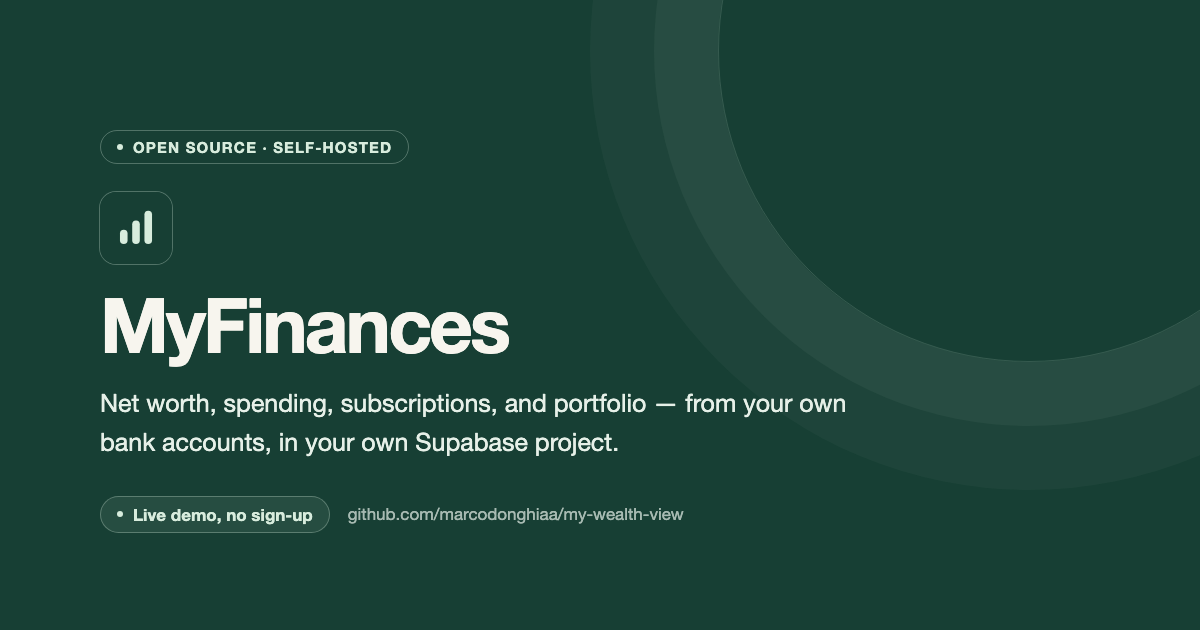
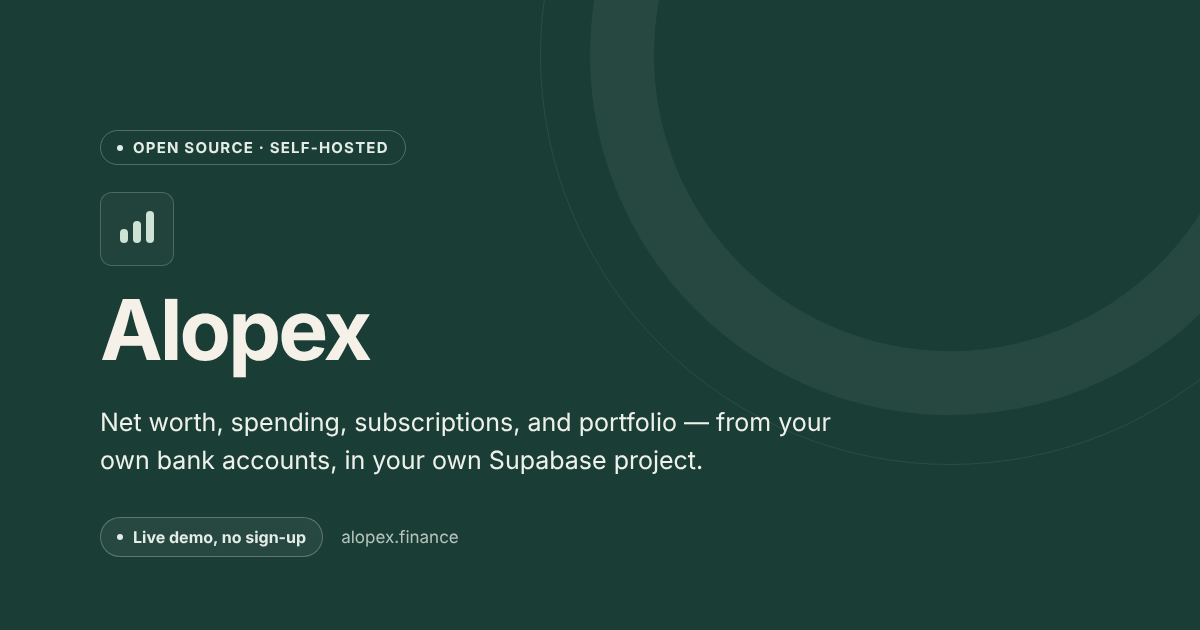
chore: rebrand MyFinances to Alopex
Display name, PWA manifest, OG image, page titles, docs and export file name.
Repo URLs unchanged until the GitHub repos are renamed.

Claude-Session: https://claude.ai/code/session_015ob4vseKrSYbt3XPdrmNM3

diff --git a/src/routes/auth.tsx b/src/routes/auth.tsx
@@ -34,13 +34,13 @@ export const Route = createFileRoute("/auth")({
   },
   head: () => ({
     meta: [
-      { title: "Sign in — MyFinances" },
+      { title: "Sign in — Alopex" },
       {
         name: "description",
         content: "Sign in to your personal finance dashboard.",
       },
       { name: "robots", content: "noindex" },
-      { property: "og:title", content: "Sign in — MyFinances" },
+      { property: "og:title", content: "Sign in — Alopex" },
       {
         property: "og:description",
         content: "Sign in to your personal finance dashboard.",
@@ -129,7 +129,7 @@ function AuthPage() {
       <div className="w-full max-w-sm">
         <div className="mb-8 flex flex-col items-center text-center">
           <BrandMark className="mb-4 size-12" />
-          <h1 className="text-2xl font-semibold tracking-tight text-foreground">MyFinances</h1>
+          <h1 className="text-2xl font-semibold tracking-tight text-foreground">Alopex</h1>
           <p className="mt-1 text-sm text-muted-foreground">Sign in to view your finances</p>
         </div>
 

diff --git a/src/routes/_authenticated/route.tsx b/src/routes/_authenticated/route.tsx
@@ -137,7 +137,7 @@ function AuthenticatedLayout() {
         <div className="flex h-16 items-center gap-2.5 px-5">
           <BrandMark className="size-8" />
           <span className="text-[0.9375rem] font-semibold tracking-tight text-sidebar-foreground">
-            MyFinances
+            Alopex
           </span>
         </div>
 
@@ -198,7 +198,7 @@ function AuthenticatedLayout() {
       {/* Mobile top bar: padded for the notch (safe-area-inset-top is 0 in a normal tab).
           Page titles are large titles inside each page; this bar only names the app. */}
       <div className="glass fixed inset-x-0 top-0 z-30 flex h-[calc(2.75rem+env(safe-area-inset-top))] items-center justify-center border-b pt-[env(safe-area-inset-top)] md:hidden">
-        <span className="text-[0.9375rem] font-semibold text-foreground">MyFinances</span>
+        <span className="text-[0.9375rem] font-semibold text-foreground">Alopex</span>
       </div>
 
       {/* Mobile bottom tab bar: max 5 items, icon + label, current tab in the tint colour. */}

diff --git a/src/routes/__root.tsx b/src/routes/__root.tsx
@@ -94,13 +94,13 @@ export const Route = createRootRouteWithContext<{ queryClient: QueryClient }>()(
     meta: [
       { charSet: "utf-8" },
       { name: "viewport", content: "width=device-width, initial-scale=1, viewport-fit=cover" },
-      { title: "MyFinances" },
+      { title: "Alopex" },
       {
         name: "description",
         content:
           "A personal finance dashboard to track net worth, spending, and portfolio over time.",
       },
-      { property: "og:title", content: "MyFinances" },
+      { property: "og:title", content: "Alopex" },
       {
         property: "og:description",
         content:
@@ -120,7 +120,7 @@ export const Route = createRootRouteWithContext<{ queryClient: QueryClient }>()(
         name: "apple-mobile-web-app-status-bar-style",
         content: "black-translucent",
       },
-      { name: "apple-mobile-web-app-title", content: "MyFinances" },
+      { name: "apple-mobile-web-app-title", content: "Alopex" },
     ],
     links: [
       {

diff --git a/src/routes/_authenticated/subscriptions.tsx b/src/routes/_authenticated/subscriptions.tsx
@@ -21,12 +21,12 @@ import { RevealDialog } from "@/components/subscriptions/reveal-dialog";
 export const Route = createFileRoute("/_authenticated/subscriptions")({
   head: () => ({
     meta: [
-      { title: "Subscriptions — MyFinances" },
+      { title: "Subscriptions — Alopex" },
       {
         name: "description",
         content: "Track recurring subscription charges and estimated monthly spend.",
       },
-      { property: "og:title", content: "Subscriptions — MyFinances" },
+      { property: "og:title", content: "Subscriptions — Alopex" },
       {
         property: "og:description",
         content: "Track recurring subscription charges and estimated monthly spend.",

diff --git a/src/routes/_authenticated/splitwise.tsx b/src/routes/_authenticated/splitwise.tsx
@@ -26,12 +26,12 @@ import { fetchSplits, money, peopleFrom, type SplitRow } from "@/lib/splits";
 export const Route = createFileRoute("/_authenticated/splitwise")({
   head: () => ({
     meta: [
-      { title: "Who owes you — MyFinances" },
+      { title: "Who owes you — Alopex" },
       {
         name: "description",
         content: "Who owes you, from your Splitwise groups and the bills you split.",
       },
-      { property: "og:title", content: "Who owes you — MyFinances" },
+      { property: "og:title", content: "Who owes you — Alopex" },
       {
         property: "og:description",
         content: "Who owes you, from your Splitwise groups and the bills you split.",

diff --git a/src/routes/_authenticated/index.tsx b/src/routes/_authenticated/index.tsx
@@ -25,12 +25,12 @@ type FxRate = { date: string; currency: string; rate_to_eur: number };
 export const Route = createFileRoute("/_authenticated/")({
   head: () => ({
     meta: [
-      { title: "Net Worth — MyFinances" },
+      { title: "Net Worth — Alopex" },
       {
         name: "description",
         content: "Track your net worth over time with daily snapshots and currency conversion.",
       },
-      { property: "og:title", content: "Net Worth — MyFinances" },
+      { property: "og:title", content: "Net Worth — Alopex" },
       {
         property: "og:description",
         content: "Track your net worth over time with daily snapshots and currency conversion.",

diff --git a/src/routes/_authenticated/reports.tsx b/src/routes/_authenticated/reports.tsx
@@ -14,12 +14,12 @@ import { MonthSwitcher } from "@/components/month-switcher";
 export const Route = createFileRoute("/_authenticated/reports")({
   head: () => ({
     meta: [
-      { title: "Monthly Report — MyFinances" },
+      { title: "Monthly Report — Alopex" },
       {
         name: "description",
         content: "Net worth change, income vs expenses, and spending for the month.",
       },
-      { property: "og:title", content: "Monthly Report — MyFinances" },
+      { property: "og:title", content: "Monthly Report — Alopex" },
       {
         property: "og:description",
         content: "Net worth change, income vs expenses, and spending for the month.",

diff --git a/src/routes/_authenticated/transactions.tsx b/src/routes/_authenticated/transactions.tsx
@@ -47,12 +47,12 @@ import { MonthSwitcher } from "@/components/month-switcher";
 export const Route = createFileRoute("/_authenticated/transactions")({
   head: () => ({
     meta: [
-      { title: "Transactions — MyFinances" },
+      { title: "Transactions — Alopex" },
       {
         name: "description",
         content: "Browse and search transactions month by month, newest first.",
       },
-      { property: "og:title", content: "Transactions — MyFinances" },
+      { property: "og:title", content: "Transactions — Alopex" },
       {
         property: "og:description",
         content: "Browse and search transactions month by month, newest first.",

diff --git a/src/routes/_authenticated/income.tsx b/src/routes/_authenticated/income.tsx
@@ -13,12 +13,12 @@ import { useIncomeCategoryMutation } from "@/components/transactions/mutations";
 export const Route = createFileRoute("/_authenticated/income")({
   head: () => ({
     meta: [
-      { title: "Income — MyFinances" },
+      { title: "Income — Alopex" },
       {
         name: "description",
         content: "Real income for the month, separate from spending and transfers.",
       },
-      { property: "og:title", content: "Income — MyFinances" },
+      { property: "og:title", content: "Income — Alopex" },
       {
         property: "og:description",
         content: "Real income for the month, separate from spending and transfers.",

diff --git a/src/routes/_authenticated/spending.tsx b/src/routes/_authenticated/spending.tsx
@@ -13,12 +13,12 @@ import { ShareBar } from "@/components/share-bar";
 export const Route = createFileRoute("/_authenticated/spending")({
   head: () => ({
     meta: [
-      { title: "Spend by Category — MyFinances" },
+      { title: "Spend by Category — Alopex" },
       {
         name: "description",
         content: "See how much you spent per category, month by month.",
       },
-      { property: "og:title", content: "Spend by Category — MyFinances" },
+      { property: "og:title", content: "Spend by Category — Alopex" },
       {
         property: "og:description",
         content: "See how much you spent per category, month by month.",

diff --git a/src/routes/_authenticated/crypto.tsx b/src/routes/_authenticated/crypto.tsx
@@ -20,12 +20,12 @@ import { formatEur, formatUsd } from "@/lib/transactions";
 export const Route = createFileRoute("/_authenticated/crypto")({
   head: () => ({
     meta: [
-      { title: "Crypto — MyFinances" },
+      { title: "Crypto — Alopex" },
       {
         name: "description",
         content: "Track your cryptocurrency holdings and allocation.",
       },
-      { property: "og:title", content: "Crypto — MyFinances" },
+      { property: "og:title", content: "Crypto — Alopex" },
       {
         property: "og:description",
         content: "Track your cryptocurrency holdings and allocation.",

diff --git a/src/components/demo-badge.tsx b/src/components/demo-badge.tsx
@@ -8,7 +8,7 @@ export function DemoBadge() {
       role="status"
       className="pointer-events-none fixed top-[calc(0.6rem+env(safe-area-inset-top))] right-3 z-50 md:top-auto md:bottom-4 rounded-full border border-primary/30 bg-card/90 px-3 py-1 text-xs font-medium text-primary shadow-sm backdrop-blur"
     >
-      {/* Under 360px the full text runs into the centred "MyFinances" title; screen readers still hear it. */}
+      {/* Under 360px the full text runs into the centred "Alopex" title; screen readers still hear it. */}
       Demo<span className="max-[359px]:sr-only">, fake data</span>
     </div>
   );
